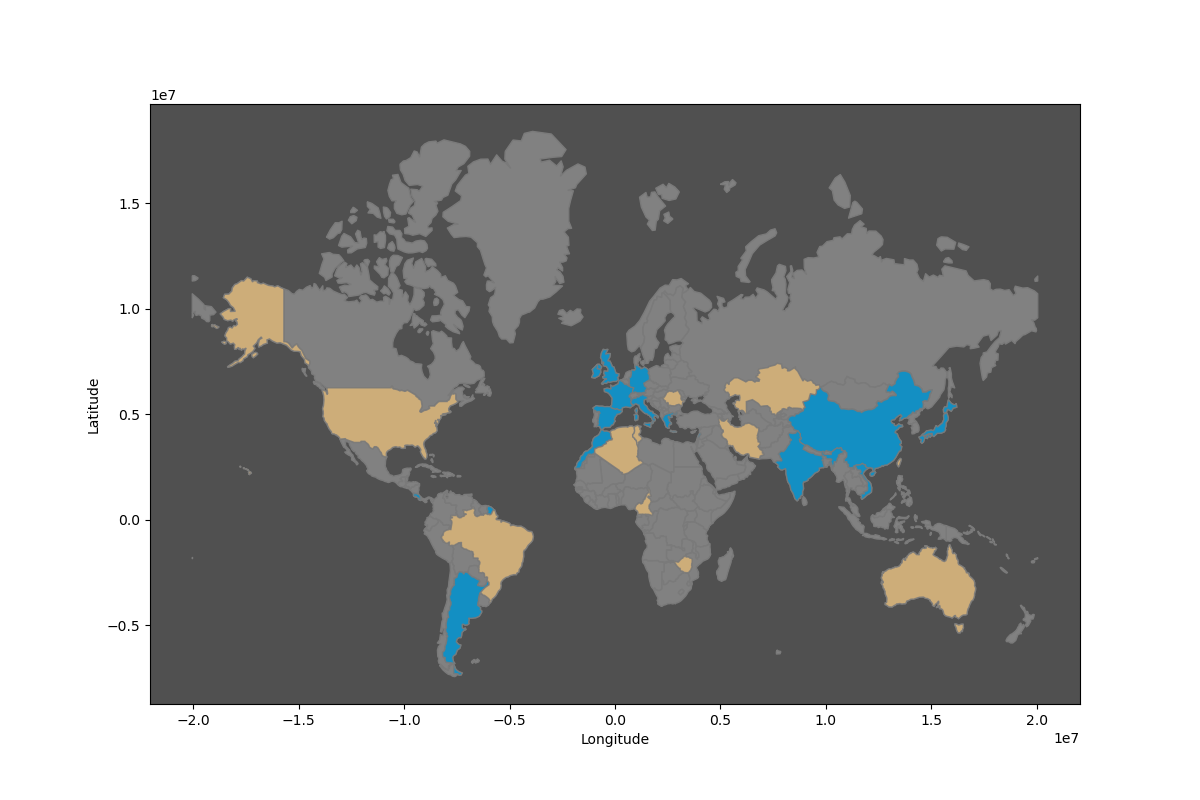
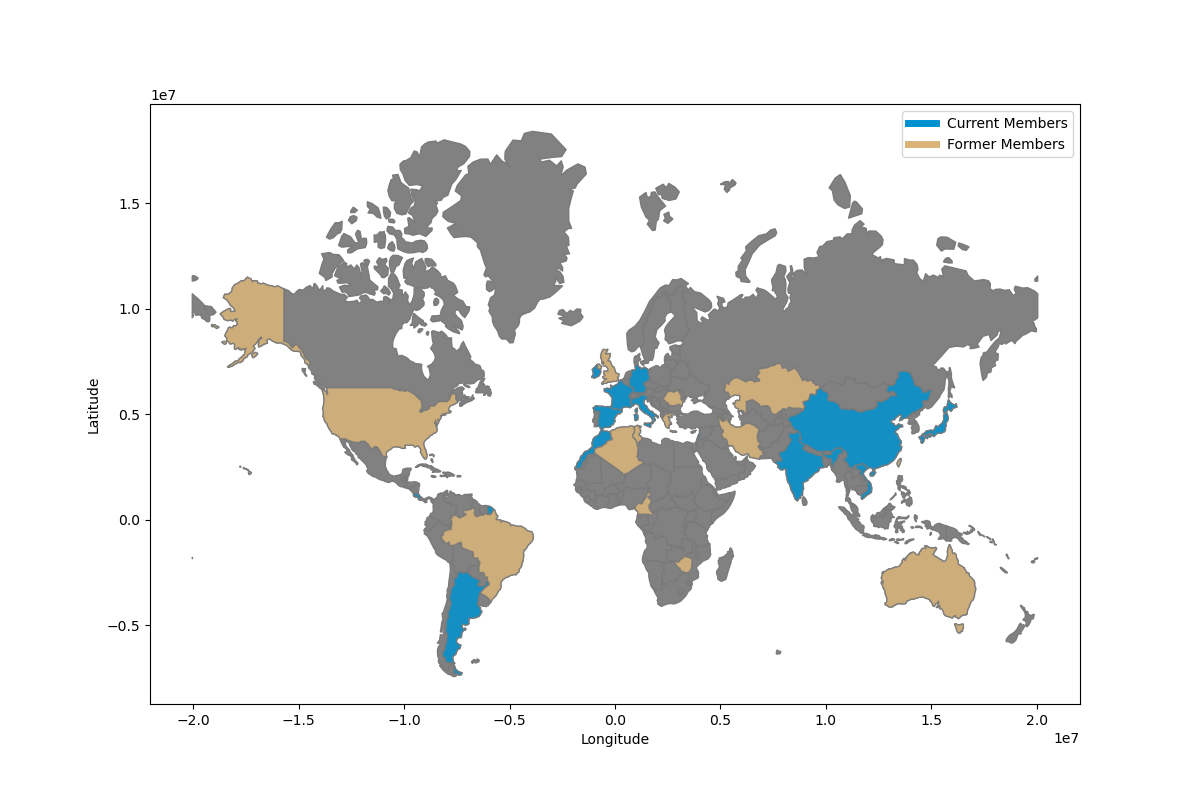
deploy: 4b6a283000bfefb19ef7c4fae8c237187bd0897b

diff --git a/lib/cosmostatmap/map.py b/lib/cosmostatmap/map.py
@@ -10,6 +10,7 @@ This module contains the class for making the CosmoStat Map.
 
 import yaml
 import matplotlib.pyplot as plt
+from matplotlib.lines import Line2D
 import geopandas as gpd
 from descartes import PolygonPatch
 
@@ -151,6 +152,11 @@ class CosmoStatMap:
         plt.ylabel('Latitude')
         plt.xlabel('Longitude')
 
+        custom_lines = [Line2D([0], [0], color=self._current_colour, lw=5),
+                        Line2D([0], [0], color=self._former_colour, lw=5)]
+
+        self._axis.legend(custom_lines, ['Current Members', 'Former Members'])
+
     def show(self, **kwargs):
         '''Plot
 
@@ -173,4 +179,4 @@ class CosmoStatMap:
         self._make_plot(**kwargs)
 
         # Show Map
-        plt.savefig(file_name)
+        plt.savefig(file_name, transparent=True)
